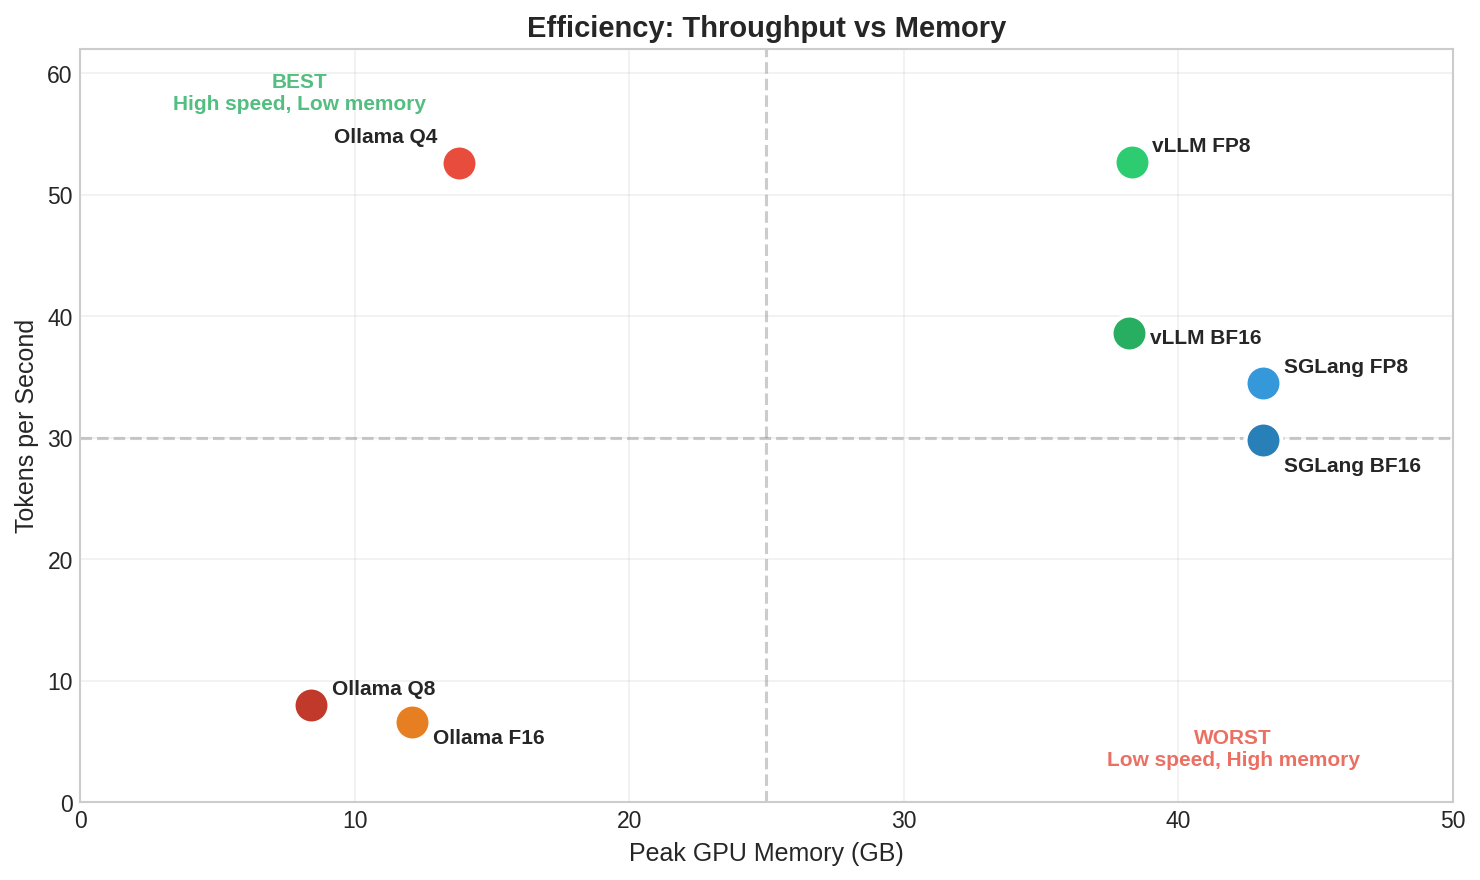
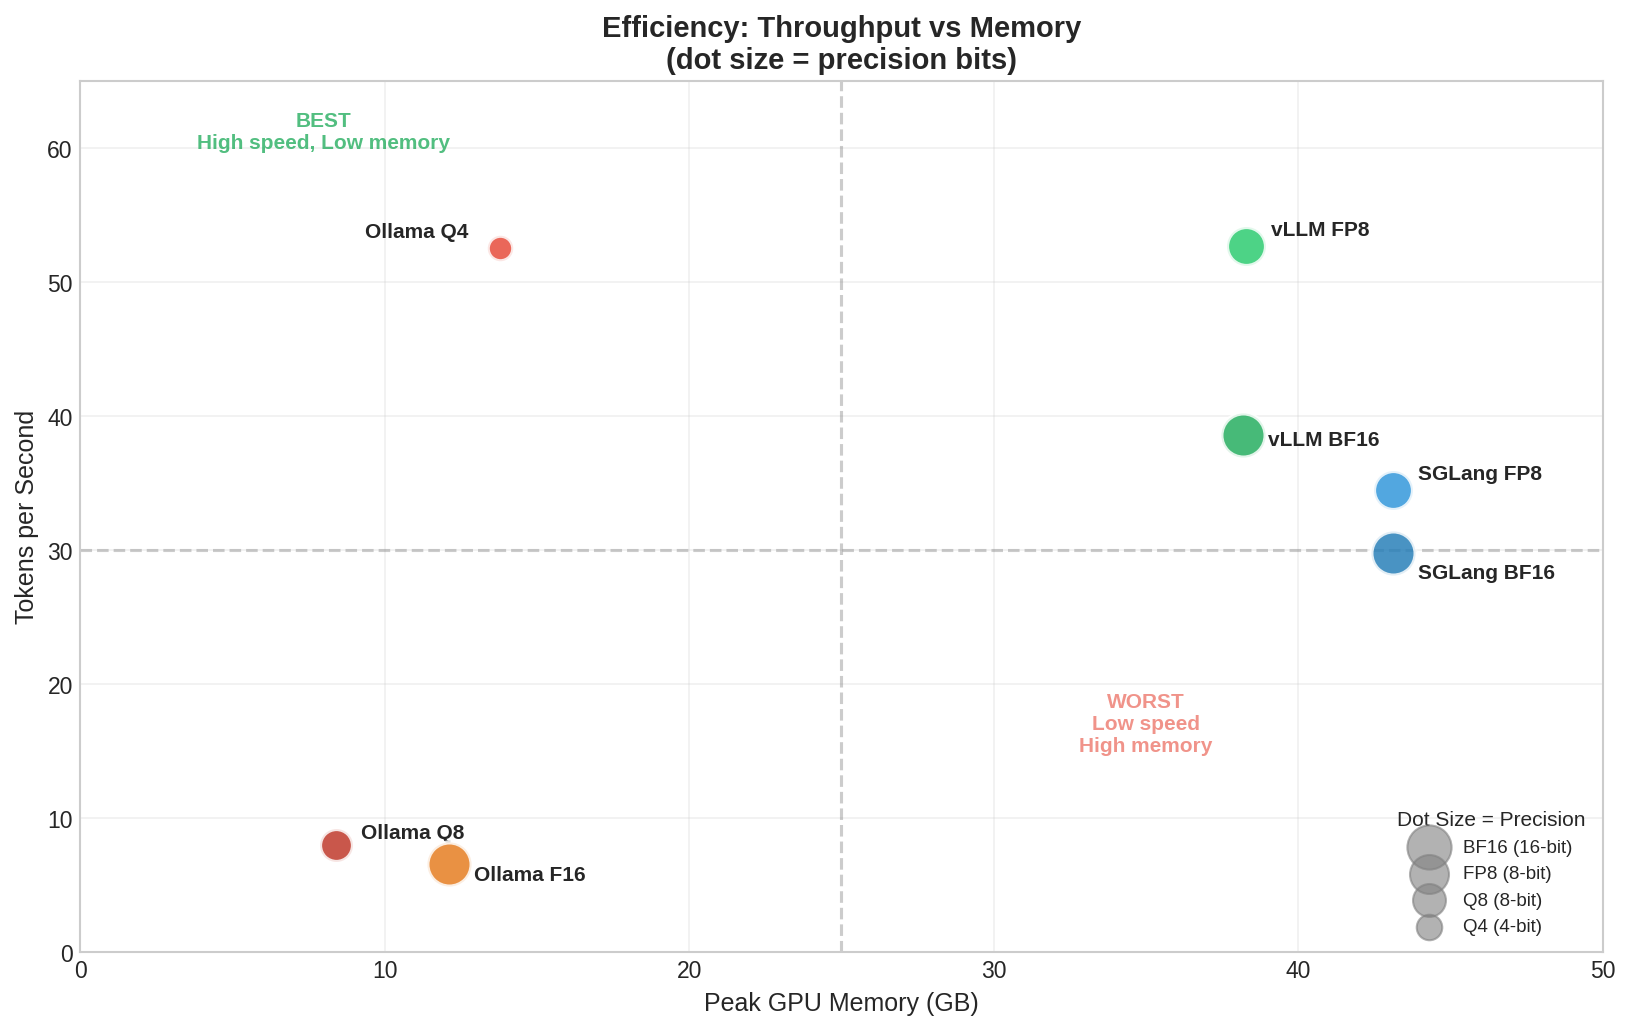
Add precision-based dot sizes to efficiency scatter plot
- Dot size proportional to precision bits (BF16 > FP8 > Q8 > Q4)
- Add legend explaining dot size = precision
- Fix label positioning to avoid overlaps

diff --git a/scripts/generate_graphs.py b/scripts/generate_graphs.py
@@ -153,49 +153,83 @@ def create_overall_comparison():
 
 
 def create_efficiency_chart():
-    """Create efficiency scatter plot."""
-    fig, ax = plt.subplots(figsize=(10, 6), dpi=150)
+    """Create efficiency scatter plot with dot size proportional to precision."""
+    fig, ax = plt.subplots(figsize=(11, 7), dpi=150)
 
-    for name, throughput, latency, memory, color in data_all:
-        ax.scatter(memory, throughput, s=300, c=color, edgecolors='white', linewidth=2, zorder=3)
+    # Precision to dot size mapping (more bits = larger dot)
+    precision_sizes = {
+        '4-bit': 150,
+        '8-bit': 250,
+        'FP8': 350,
+        'BF16': 450,
+    }
+
+    # Data with precision info: (name, throughput, latency, memory, color, precision)
+    data_with_precision = [
+        ('vLLM FP8', 52.7, 2.82, 38.3, '#2ecc71', 'FP8'),
+        ('Ollama Q4', 52.6, 4.89, 13.8, '#e74c3c', '4-bit'),
+        ('vLLM BF16', 38.6, 3.66, 38.2, '#27ae60', 'BF16'),
+        ('SGLang FP8', 34.5, 5.02, 43.1, '#3498db', 'FP8'),
+        ('SGLang BF16', 29.8, 5.46, 43.1, '#2980b9', 'BF16'),
+        ('Ollama Q8', 8.0, 4.08, 8.4, '#c0392b', '8-bit'),
+        ('Ollama F16', 6.6, 4.42, 12.1, '#e67e22', 'BF16'),
+    ]
+
+    # Plot each point
+    for name, throughput, latency, memory, color, precision in data_with_precision:
+        size = precision_sizes[precision]
+        ax.scatter(memory, throughput, s=size, c=color, edgecolors='white',
+                   linewidth=2, zorder=3, alpha=0.85)
 
         # Position labels to avoid overlap
         if name == 'Ollama Q4':
-            ax.annotate(name, (memory, throughput), xytext=(-60, 10), textcoords='offset points',
+            ax.annotate(name, (memory, throughput), xytext=(-65, 5), textcoords='offset points',
                         fontsize=10, fontweight='bold')
         elif name == 'vLLM FP8':
-            ax.annotate(name, (memory, throughput), xytext=(10, 5), textcoords='offset points',
+            ax.annotate(name, (memory, throughput), xytext=(12, 5), textcoords='offset points',
                         fontsize=10, fontweight='bold')
         elif name == 'vLLM BF16':
-            ax.annotate(name, (memory, throughput), xytext=(10, -5), textcoords='offset points',
+            ax.annotate(name, (memory, throughput), xytext=(12, -5), textcoords='offset points',
                         fontsize=10, fontweight='bold')
-        elif name in ['SGLang FP8', 'SGLang BF16']:
-            offset = 5 if 'FP8' in name else -15
-            ax.annotate(name, (memory, throughput), xytext=(10, offset), textcoords='offset points',
+        elif name == 'SGLang FP8':
+            ax.annotate(name, (memory, throughput), xytext=(12, 5), textcoords='offset points',
+                        fontsize=10, fontweight='bold')
+        elif name == 'SGLang BF16':
+            ax.annotate(name, (memory, throughput), xytext=(12, -12), textcoords='offset points',
                         fontsize=10, fontweight='bold')
         elif name == 'Ollama Q8':
-            ax.annotate(name, (memory, throughput), xytext=(10, 5), textcoords='offset points',
+            ax.annotate(name, (memory, throughput), xytext=(12, 3), textcoords='offset points',
                         fontsize=10, fontweight='bold')
         elif name == 'Ollama F16':
-            ax.annotate(name, (memory, throughput), xytext=(10, -10), textcoords='offset points',
+            ax.annotate(name, (memory, throughput), xytext=(12, -8), textcoords='offset points',
                         fontsize=10, fontweight='bold')
 
     ax.set_xlabel('Peak GPU Memory (GB)', fontsize=12)
     ax.set_ylabel('Tokens per Second', fontsize=12)
-    ax.set_title('Efficiency: Throughput vs Memory', fontsize=14, fontweight='bold')
+    ax.set_title('Efficiency: Throughput vs Memory\n(dot size = precision bits)', fontsize=14, fontweight='bold')
 
     # Quadrant lines
     ax.axhline(y=30, color='gray', linestyle='--', alpha=0.4)
     ax.axvline(x=25, color='gray', linestyle='--', alpha=0.4)
 
     # Quadrant labels
-    ax.text(8, 57, 'BEST\nHigh speed, Low memory', fontsize=10, ha='center',
+    ax.text(8, 60, 'BEST\nHigh speed, Low memory', fontsize=10, ha='center',
             color='#27ae60', fontweight='bold', alpha=0.8)
-    ax.text(42, 3, 'WORST\nLow speed, High memory', fontsize=10, ha='center',
-            color='#e74c3c', fontweight='bold', alpha=0.8)
+    ax.text(35, 15, 'WORST\nLow speed\nHigh memory', fontsize=10, ha='center',
+            color='#e74c3c', fontweight='bold', alpha=0.6)
+
+    # Add precision size legend
+    legend_elements = [
+        plt.scatter([], [], s=precision_sizes['BF16'], c='gray', alpha=0.6, label='BF16 (16-bit)'),
+        plt.scatter([], [], s=precision_sizes['FP8'], c='gray', alpha=0.6, label='FP8 (8-bit)'),
+        plt.scatter([], [], s=precision_sizes['8-bit'], c='gray', alpha=0.6, label='Q8 (8-bit)'),
+        plt.scatter([], [], s=precision_sizes['4-bit'], c='gray', alpha=0.6, label='Q4 (4-bit)'),
+    ]
+    ax.legend(handles=legend_elements, loc='lower right', title='Dot Size = Precision',
+              fontsize=9, title_fontsize=10, framealpha=0.95)
 
     ax.set_xlim(0, 50)
-    ax.set_ylim(0, 62)
+    ax.set_ylim(0, 65)
     ax.grid(True, alpha=0.3)
 
     plt.tight_layout()
